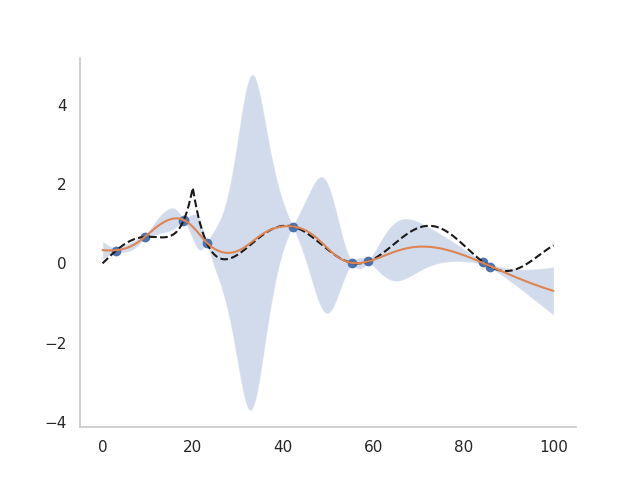
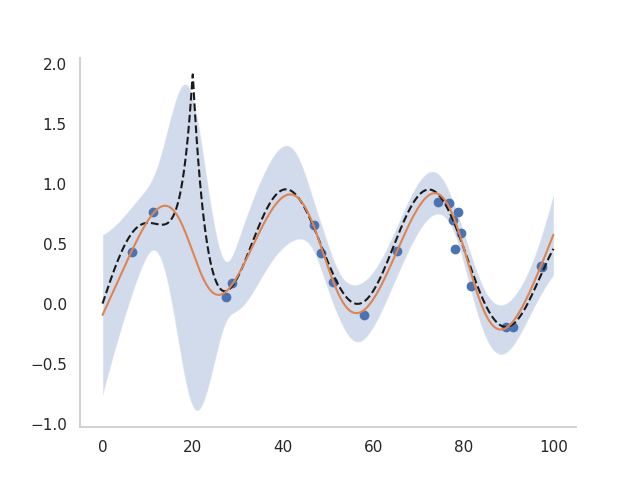
tweaked 1d experiment

diff --git a/experiments/regression_1D.py b/experiments/regression_1D.py
@@ -3,8 +3,8 @@ from preds.glm_wrappers.mlp import GLMRegressor
 import numpy as np
 
 
-noise = 0.001
-ndata = 10
+noise = 0.1
+ndata = 20
 
 
 def f(x):
